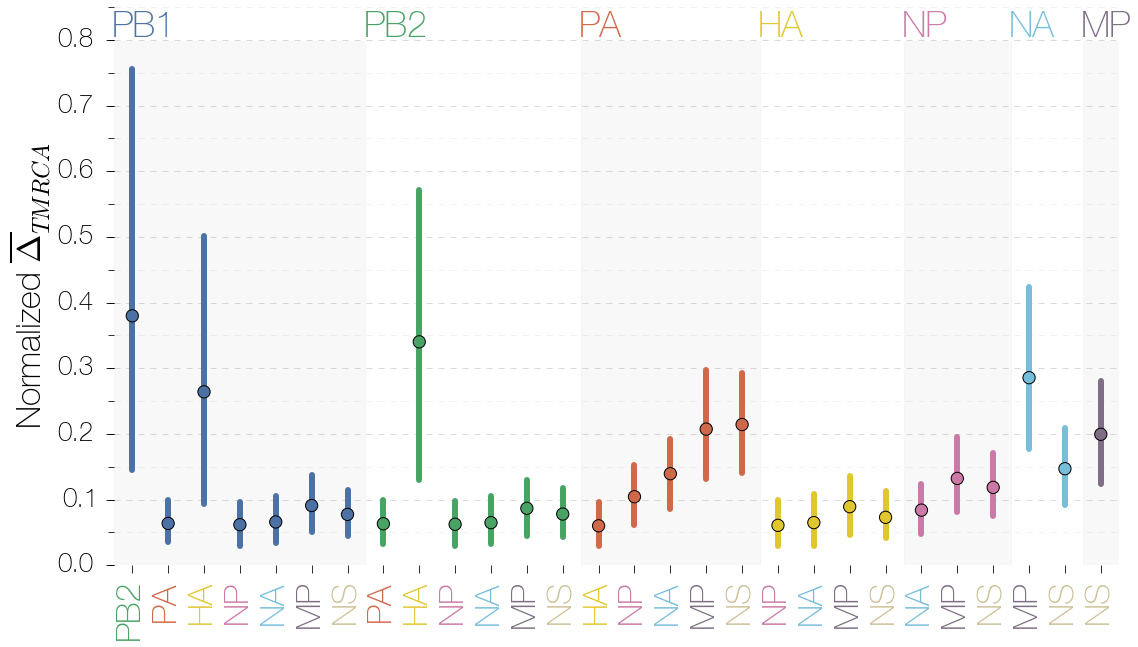
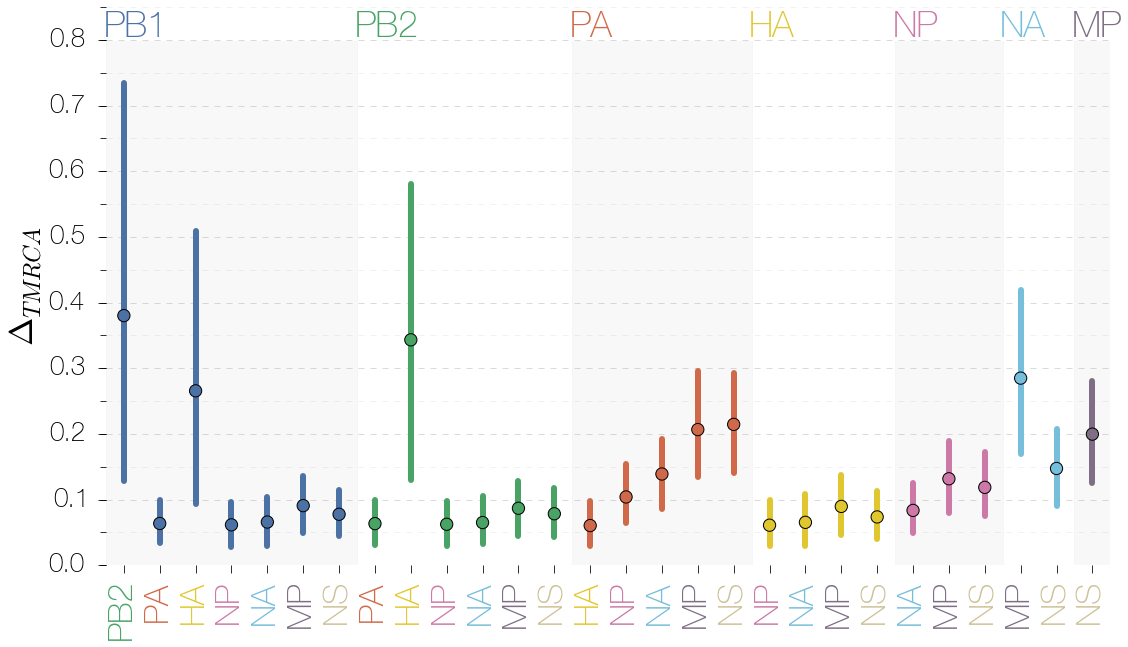
Fix #40
Dtmrca now refers to the normalized measure and dtmrca refers to the
mean of TMRCA deviations.
Should now be unambiguous across main and supplementary texts. Also fix
a few figures.

diff --git a/fluB.tex b/fluB.tex
@@ -65,6 +65,7 @@
 % symbols
 \newcommand{\chiSq}{\chi^{2}_{df}}
 \newcommand{\dtmrca}{\Delta_\mathrm{TMRCA}}
+\newcommand{\undtmrca}{\delta_\mathrm{TMRCA}}
 \newcommand{\dspr}{d_\mathrm{SPR}}
 
 %%% TITLE %%%
@@ -252,17 +253,17 @@ All vertical lines indicating uncertainty are 95\% highest posterior densities (
 We attempted to quantify the temporal discordance between lineages reassorting into new genomic constellations.
 If one were able to recover an influenza `species tree', including admixture/reassortment events, it would be possible to estimate the reassortment or recombination `distance', which is the time between a split in the species tree in the past and a reassortment event (see Figure \ref{speciesTree}).
 Although we do not find evidence of differences in total number of reassortments between segments (see Supplementary information), we find support for a reassortment `distance' effect, in which a pair of tips on one segment has a different TMRCA from the same pair of tips on a different segment.
-The summary statistic we use that reflects this difference in TMRCAs, $\dtmrca$, is most sensitive when only one of the two trees being compared loses diversity via reassortment and the other acts like a proxy for the `species tree'.
-We normalize our $\dtmrca$ comparisons to account for uncertainty in tree topology (see Methods).
-Figure \ref{deltaTMRCA} shows normalized $\dtmrca$ values for all pairs of trees.
+The summary statistic we use that reflects this difference in TMRCAs, $\undtmrca$, is most sensitive when only one of the two trees being compared loses diversity via reassortment and the other acts like a proxy for the `species tree'.
+We normalize our $\undtmrca$ comparisons to arrive at $\dtmrca$, which accounts for uncertainty in tree topology (see Methods).
+Figure \ref{deltaTMRCA} shows $\dtmrca$ values for all pairs of trees.
 Most segment pairs show very low values for this statistic with $\dtmrca \approx 0.1$, indicating that $\dtmrca$ measurements between replicate posterior samples from the same segment are up to 10 times smaller than $\dtmrca$ values between posterior samples from different segments.
-PB1, PB2 and HA trees, on the other hand, exhibit normalized $\dtmrca$ values that are much higher.
+PB1, PB2 and HA trees, on the other hand, exhibit $\dtmrca$ values that are much higher.
 This shows that TMRCA differences between trees of PB1, PB2 and HA segments are, though noisy, occasionally very similar to uncertainty in tip-to-tip TMRCAs between replicate analyses of these segments.
 
 \begin{figure}[h]
 	\centering
 	\includegraphics[width=0.65\textwidth]{figures/InfB_normalizedMuDeltaTMRCA.png}
-	\caption{\textbf{Normalized mean $\dtmrca$ statistics for different segment pairs.}
+	\caption{\textbf{$\dtmrca$ statistics for different segment pairs.}
 PB1, PB2 and HA trees exhibit reciprocally highly similar TMRCAs, unlike most other pairwise comparisons.
 All vertical lines indicating uncertainty are 95\% highest posterior densities (HPDs).}
 	\label{deltaTMRCA}
@@ -368,24 +369,25 @@ We do this by summing the branch lengths in each tree under 3 different lineage 
 This gives a measure of how successful, over long periods of time, each particular PB1-PB2-HA constellation has been.
 
 \subsection*{Tree to tree similarities}
-We express the distance $\dtmrca$ between trees belonging to two segments $A$ and $B$ for a particular posterior sample $i$, following
+We express the normalized distance $\dtmrca$ between trees belonging to two segments $A$ and $B$ for a particular posterior sample $i$, following
 \begin{equation}
-normalized \dtmrca(A_i, B_i) = \frac{\dtmrca(A_i, A_i') + \dtmrca(B_i, B_i')}{2 \, \dtmrca(A_i, B_i)},
+\dtmrca(A_i, B_i) = \frac{\undtmrca(A_i, A_i') + \undtmrca(B_i, B_i')}{2 \, \undtmrca(A_i, B_i)},
 \end{equation}
-where $\dtmrca(A_i, B_i) = \frac{1}{n}\sum_{j=1}^n g(A_{ij}, B_{ij})$ and $n$ is the total number of pairwise comparisons available between sets of tips.
+where $\undtmrca(A_i, B_i) = \frac{1}{n}\sum_{j=1}^n g(A_{ij}, B_{ij})$ and $n$ is the total number of pairwise comparisons available between sets of tips.
 Thus, $g(A_{ij},B_{ij})$ is the absolute difference in TMRCA of a pair of tips $j$, where the pair is drawn from the \textit{i}th posterior sample of tree $A$ and the \textit{i}th posterior sample of tree $B$.
-Additionally, $\dtmrca(A_i,A'_i)$ is calculated from the \textit{i}th posterior sample of tree A and \textit{i}th posterior sample of an independent analysis of tree $A$ (which we refer to as $A'$), which is used in the normalization procedure to control for variability in tree topology stability over the course of the MCMC chain (see Figures \ref{deltaTMRCAtrees} and \ref{deltaTMRCAreplicates}).
-We had 3 replicate analyses of each segment and in order to calculate $\dtmrca(A_i,A'_i)$ we used analyses numbered 1, 2 and 3 as $A$ and analyses numbered 2, 3 and 1 as $A'$, in that order.
-We subsampled our combined posterior distribution of trees to give a total of 2,700 trees on which to analyze normalized $\dtmrca$.
+Additionally, $\undtmrca(A_i,A'_i)$ is calculated from the \textit{i}th posterior sample of tree A and \textit{i}th posterior sample of an independent analysis of tree $A$ (which we refer to as $A'$), which is used in the normalization procedure to control for variability in tree topology stability over the course of the MCMC chain (see Figures \ref{deltaTMRCAtrees} and \ref{deltaTMRCAreplicates}).
+We had 3 replicate analyses of each segment and in order to calculate $\undtmrca(A_i,A'_i)$ we used analyses numbered 1, 2 and 3 as $A$ and analyses numbered 2, 3 and 1 as $A'$, in that order.
+We subsampled our combined posterior distribution of trees to give a total of 2,700 trees on which to analyze $\dtmrca$.
 
-Calculating normalized $\dtmrca(A_i, B_i)$ for each MCMC state provides us with a posterior distribution of this statistic allowing  specific hypotheses regarding similarities between the trees of different segments to be tested.
+Calculating the normalized $\dtmrca(A_i, B_i)$ for each MCMC state provides us with a posterior distribution of this statistic allowing  specific hypotheses regarding similarities between the trees of different segments to be tested.
 Our approach exploits the branch scaling used by BEAST \citep{drummond2012}, since the trees are scaled in absolute time and insensitive to variation in nucleotide substitution rates between segments, allowing for direct comparisons between TMRCAs in different trees.
 In the absence of reassortment we expect the tree of every segment to recapitulate the `virus tree', a concept analogous to `species trees' in population genetics.
 Our method operates under the assumption that the segment trees capture this `virus tree' of influenza B viruses quite well.
 It is not an unreasonable assumption, given the seasonal bottlenecks influenza viruses experience.
 This makes it almost certain that influenza viruses circulating at any given time point are derived from a single genome that existed in the recent past.
-The $\dtmrca$ statistic essentially quantifies the temporal distance between admixture events and nodes in the `virus tree' (see Figure \ref{speciesTree}).
-Our $\dtmrca$ statistic is an extension of patristic distance methods and has previously been used to tackle a wide variety of problems, as phylogenetic distance in predicting viral titer in \textit{Drosophila} infected with viruses from closely related species \citep{longdon2011} and to assess temporal incongruence in a phylogenetic tree of amphibian species induced by using different calibrations \citep{ruane2011}.
+The $\undtmrca$ statistic essentially quantifies the temporal distance between admixture events and nodes in the `virus tree' (see Figure \ref{speciesTree}).
+We normalize $\undtmrca$ values to get $\dtmrca$, a measure which quantifies the extent to which the similarity of two independent trees resembles phylogenetic noise.
+The $\undtmrca$ statistic is an extension of patristic distance methods and has previously been used to tackle a wide variety of problems, as phylogenetic distance in predicting viral titer in \textit{Drosophila} infected with viruses from closely related species \citep{longdon2011} and to assess temporal incongruence in a phylogenetic tree of amphibian species induced by using different calibrations \citep{ruane2011}.
 
 \subsection*{Linkage disequilibrium across the influenza B genome}
 We used the secondary GenBank dataset with 1603 complete genome sequences to estimate linkage disequilibrium (LD) between amino acid loci across the longest proteins encoded by each segment of the influenza B virus genome.

diff --git a/fluB_supp.tex b/fluB_supp.tex
@@ -64,6 +64,7 @@
 % symbols
 \newcommand{\chiSq}{\chi^{2}_{df}}
 \newcommand{\dtmrca}{\Delta_\mathrm{TMRCA}}
+\newcommand{\undtmrca}{\delta_\mathrm{TMRCA}}
 \newcommand{\dspr}{d_\mathrm{SPR}}
 
 \begin{document}
@@ -127,12 +128,20 @@ Similarly, site 399 on the PB2 protein are close to residues 377, 406 and 408 wh
 \label{ChiCore}
 \end{figure}
 
+\begin{figure}
+\centering  
+\includegraphics[width=0.95\textwidth]  {supp_figures/InfB_LDheatmap.1600.aa.ChiSqdf.minorCutoff1percent.png}
+\caption{\textbf{Heatmap of genome-wide linkage disequilibrium ($\chiSq$) between polymorphic amino acid sites.}
+Patterns of LD across the genome suggest a network of reciprocally linked amino acid sites on PB1, PB2, HA and, to some extent NA, proteins.
+Proximity of sites on heatmaps might not correspond to proximity of sites within proteins.}
+\label{ChiGenome}
+\end{figure}
 
 \subsection*{Analysis of within-lineage reassortment patterns}
 Subtree prune and regraft (SPR) distances between phylogenetic trees are an approximate measure of the numbers of reassortment or recombination events \citep{svinti2013}.
 Exact SPR distances are difficult to compute, as they depend on the SPR distance itself and are impractical to compute for posterior distributions of trees except for the most similar trees.
 We calculated approximate SPR distances \citep{whidden2009,whidden2010,whidden2013} to quantify the numbers of reassortments that have taken place between all pairs of segments.
-Approximate SPR distances were normalized using the procedure used to normalize $\dspr$ (see Methods):
+Normalized approximate SPR distances,$\dspr$, were recovered using (see Methods):
 \begin{equation}
 \dspr(A_i, B_i) = \frac{f(A_i, A_i') + f(B_i, B_i')}{2 \, f(A_i, B_i)},
 \end{equation}
@@ -268,15 +277,6 @@ Due to excessively long computation time of exact SPR distances between PB2 and 
 
 \begin{figure}
 \centering  
-\includegraphics[width=0.95\textwidth]  {supp_figures/InfB_LDheatmap.1600.aa.ChiSqdf.minorCutoff1percent.png}
-\caption{\textbf{Heatmap of genome-wide linkage disequilibrium ($\chiSq$) between polymorphic amino acid sites.}
-Patterns of LD across the genome suggest a network of reciprocally linked amino acid sites on PB1, PB2, HA and, to some extent NA, proteins.
-Proximity of sites on heatmaps might not correspond to proximity of sites within proteins.}
-\label{ChiGenome}
-\end{figure}
-
-\begin{figure}
-\centering  
 \includegraphics[width=0.65\textwidth]  {supp_figures/InfB_robustCounting.png}
 \caption{\textbf{Synonymous, non-synonymous and nucleotide substitution rates in segments under different PB1-PB2-HA complexes.}
 Evolutionary rate dissimilarities under Vic and Yam PB1-PB2-HA complexes are not systematic and appear negligible.
@@ -299,24 +299,24 @@ Vertical bars indicating uncertainty are 95\% HPDs, black bars indicate 95\% HPD
 \begin{figure}
 \centering  
 \includegraphics[width=0.65\textwidth]  {supp_figures/InfB_supp_deltaTMRCA_trees.png}
-\caption{\textbf{Mean $\dtmrca$ between all pairs of trees of segments.}
-Mean $\dtmrca$ between trees of segments reveal that tip pairs in PB1, PB2 and HA trees have very similar TMRCAs.
-The upper tail of the 95\% HPD (HPDs are represented as vertical lines) interval of mean $\dtmrca$ values for PB1-PB2-HA and MP-NA trees do not exceed 3 years.}
+\caption{\textbf{$\undtmrca$ between all pairs of trees of segments.}
+$\undtmrca$ between trees of segments reveal that tip pairs in PB1, PB2 and HA trees have very similar TMRCAs.
+The upper tail of the 95\% HPD (HPDs are represented as vertical lines) interval of $\undtmrca$ values for PB1-PB2-HA and MP-NA trees do not exceed 3 years.}
 \label{deltaTMRCAtrees}
 \end{figure}
 
 \begin{figure}
 \centering  
 \includegraphics[width=0.65\textwidth]  {supp_figures/InfB_supp_deltaTMRCA_replicates.png}
-\caption{\textbf{Mean $\dtmrca$ between replicate trees of each segment.}
-Mean $\dtmrca$ values between independent analyses of each segment show that mean $\dtmrca$ values rarely exceed 1 year.}
+\caption{\textbf{$\undtmrca$ between replicate trees of each segment.}
+$\undtmrca$ values between independent analyses of each segment show that mean $\undtmrca$ values rarely exceed 1 year.}
 \label{deltaTMRCAreplicates}
 \end{figure}
 
 \begin{figure}[h]
 	\centering	
 	\includegraphics[width=0.85\textwidth]{figures/InfB_methodSpeciesTree.pdf}
-	\caption{\textbf{Calculating $\dtmrca$ from a species tree perspective.}
+	\caption{\textbf{Calculating $\undtmrca$ from a species tree perspective.}
 Consider an organism that has diverged into 3 taxa (A, B, C) with a genome comprised of 3 segments (blue, green and red).
 Due to reassortments taxa A and B share a slightly more recent TMRCA in the red segment, likewise for taxa B and C in the green segment.
 By comparing differences in TMRCAs between taxa A-B, A-C and B-C in blue, red and green segments we would find that the red segment has a lower `reassortment distance' (X) than the green segment (Y).
